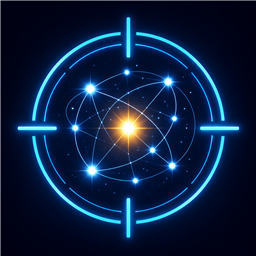
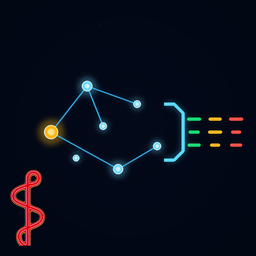
Add release package artwork

diff --git a/packaging/README.md b/packaging/README.md
@@ -1,3 +1,5 @@
+<p align="center"><img alt="Before you choose a star, let the galaxy tell you what kind of future it holds." src="https://shytamir.github.io/DSP_Guide/assets/images/mod/before-you-choose-a-star-let-the-galaxy-tell-you-what-kind-of-future-it-holds.png"><br><small><em><span style="color:#b8b8b8">Before you choose a star, let the galaxy tell you what kind of future it holds.</span></em></small></p>
+
 # DSP Seed Scanner
 
 DSP Seed Scanner helps you choose a cluster before starting a new game. It
